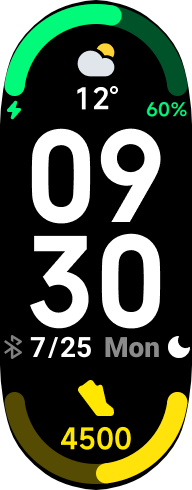
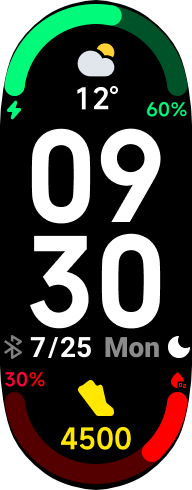
Update preview

Changed region(s): [[0.0, 0.7347, 1.0, 1.0]]

diff --git a/src/editables.js b/src/editables.js
@@ -90,7 +90,7 @@ function renderBars(widgetKeys) {
       h: 136,
       select_image: `edit/${i}a.png`,
       un_select_image: `edit/${i}.png`,
-      default_type: i == 0 ? 3 : 0, // battery : steps
+      default_type: i == 0 ? 3 : 6, // battery : spo2
       optional_types: Object.keys(EDIT_BARS).map((key) => {
         const data = EDIT_BARS[key];
         return {
